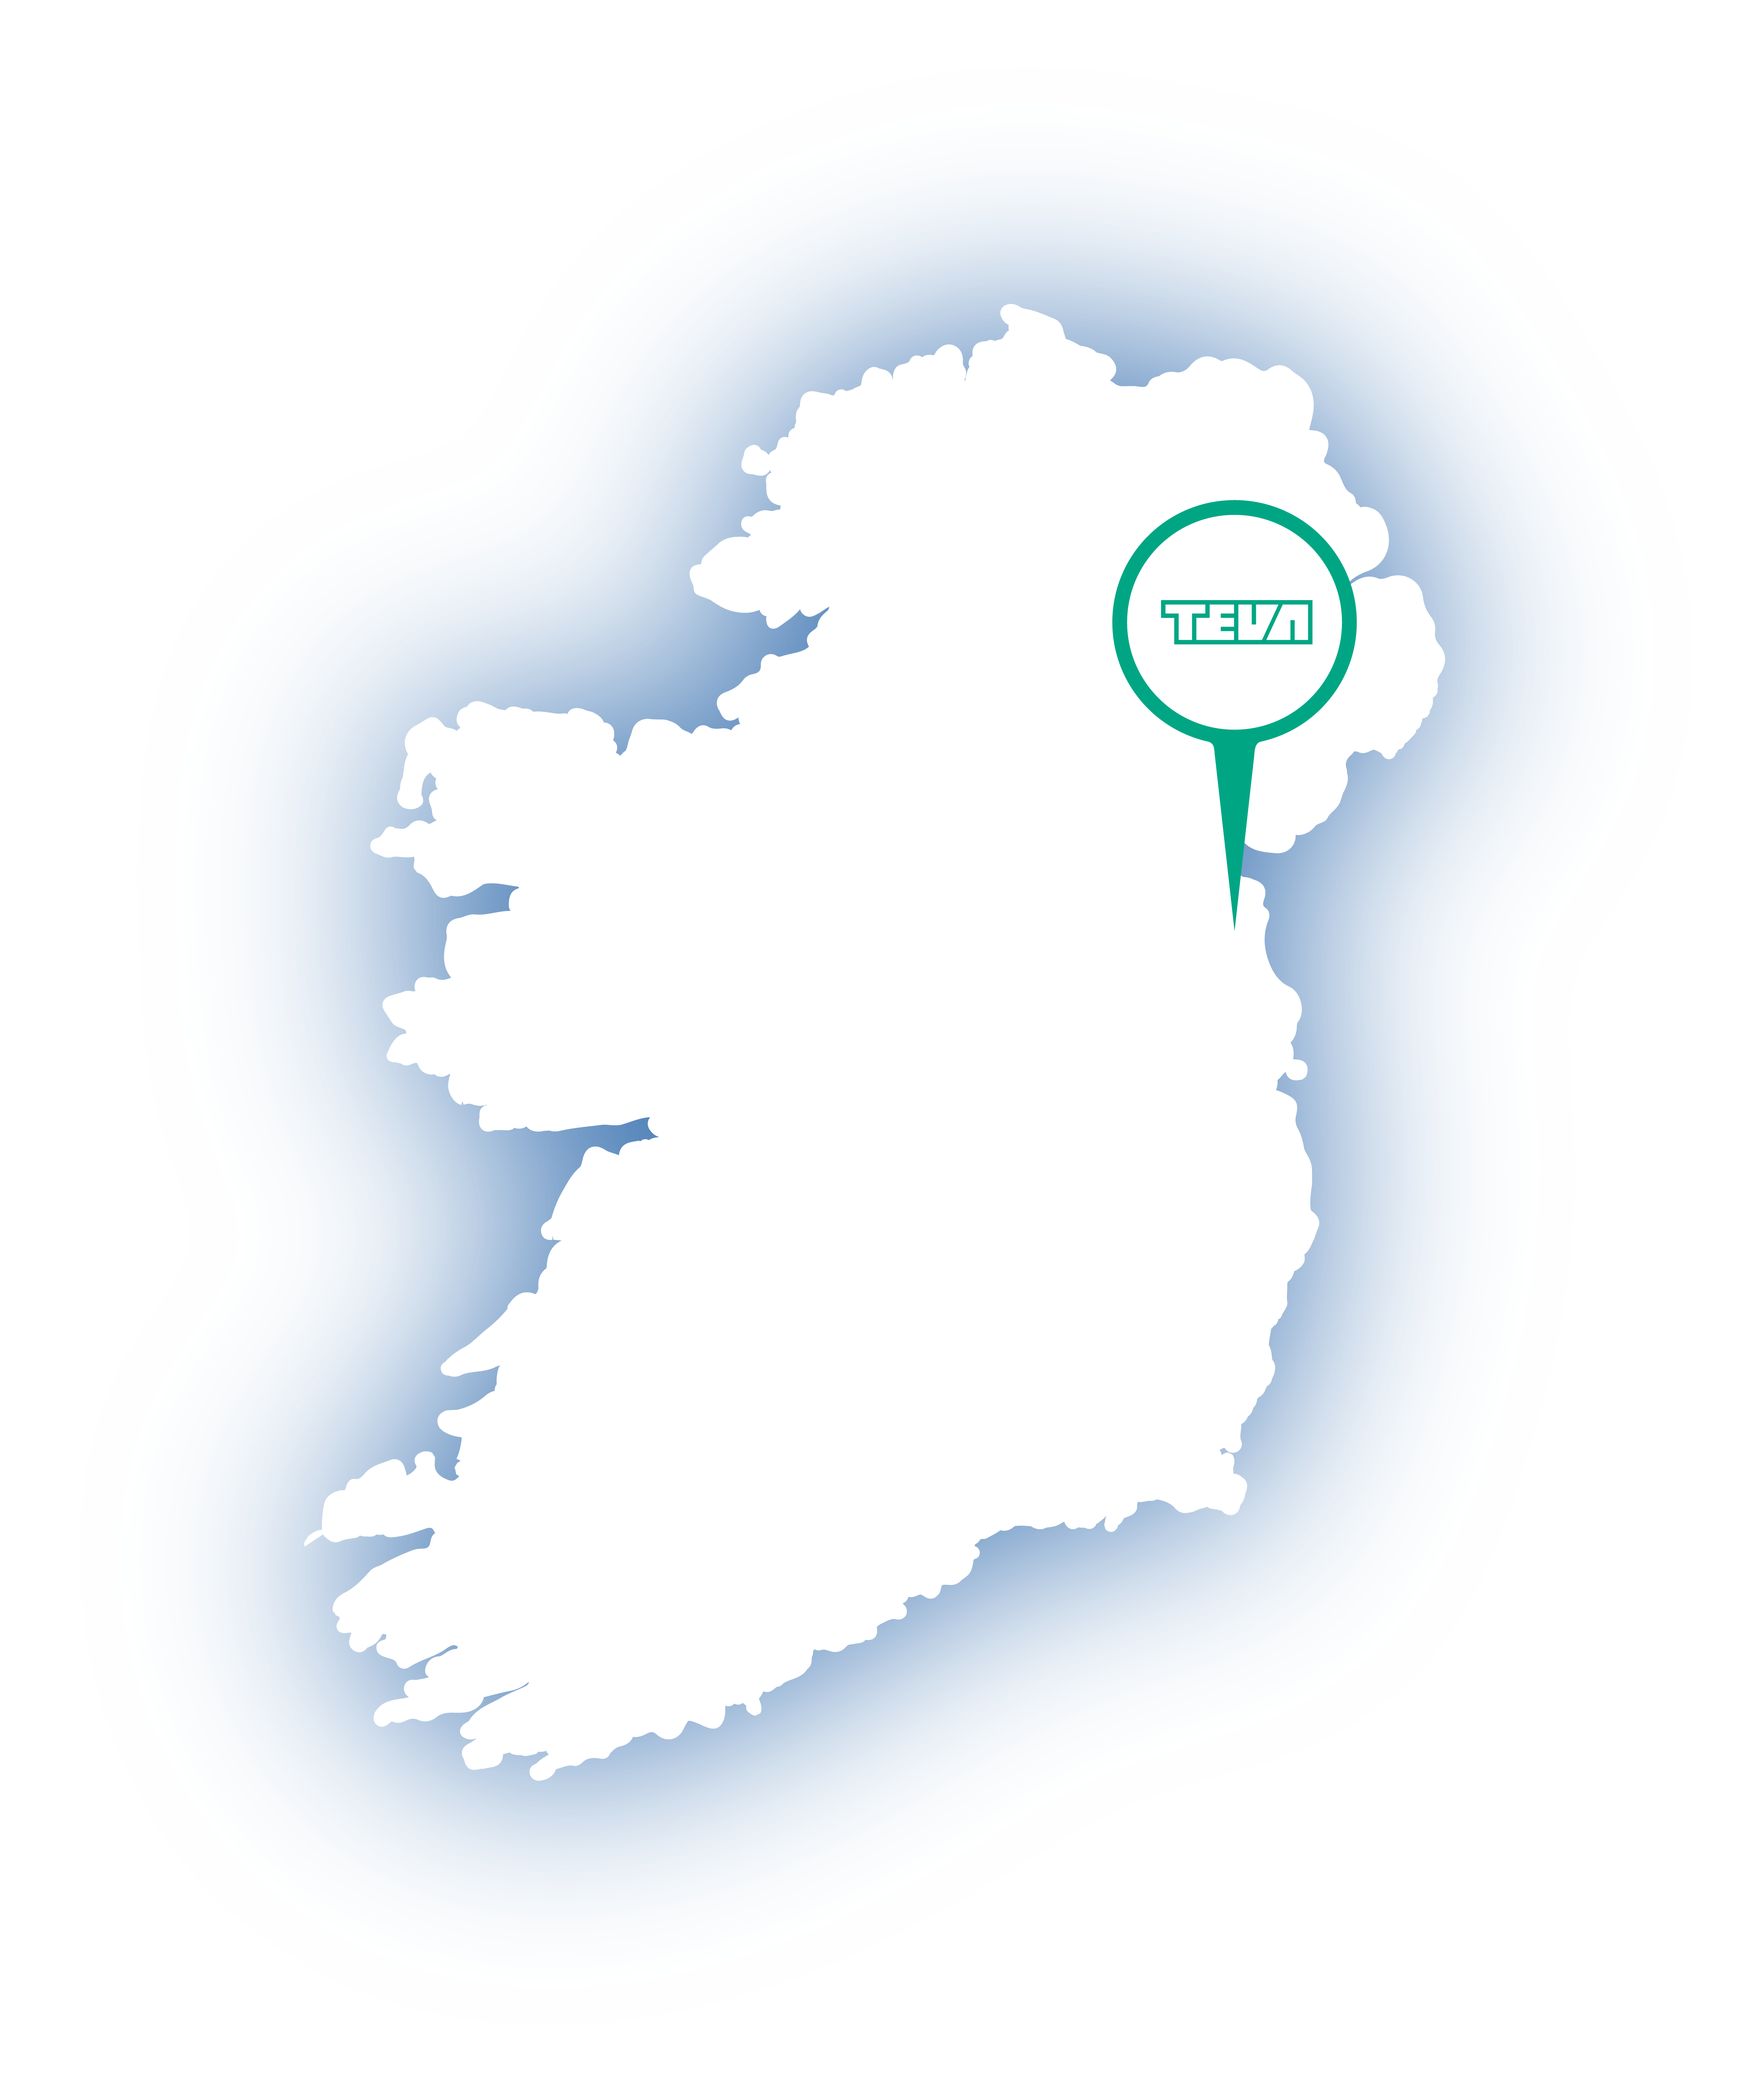
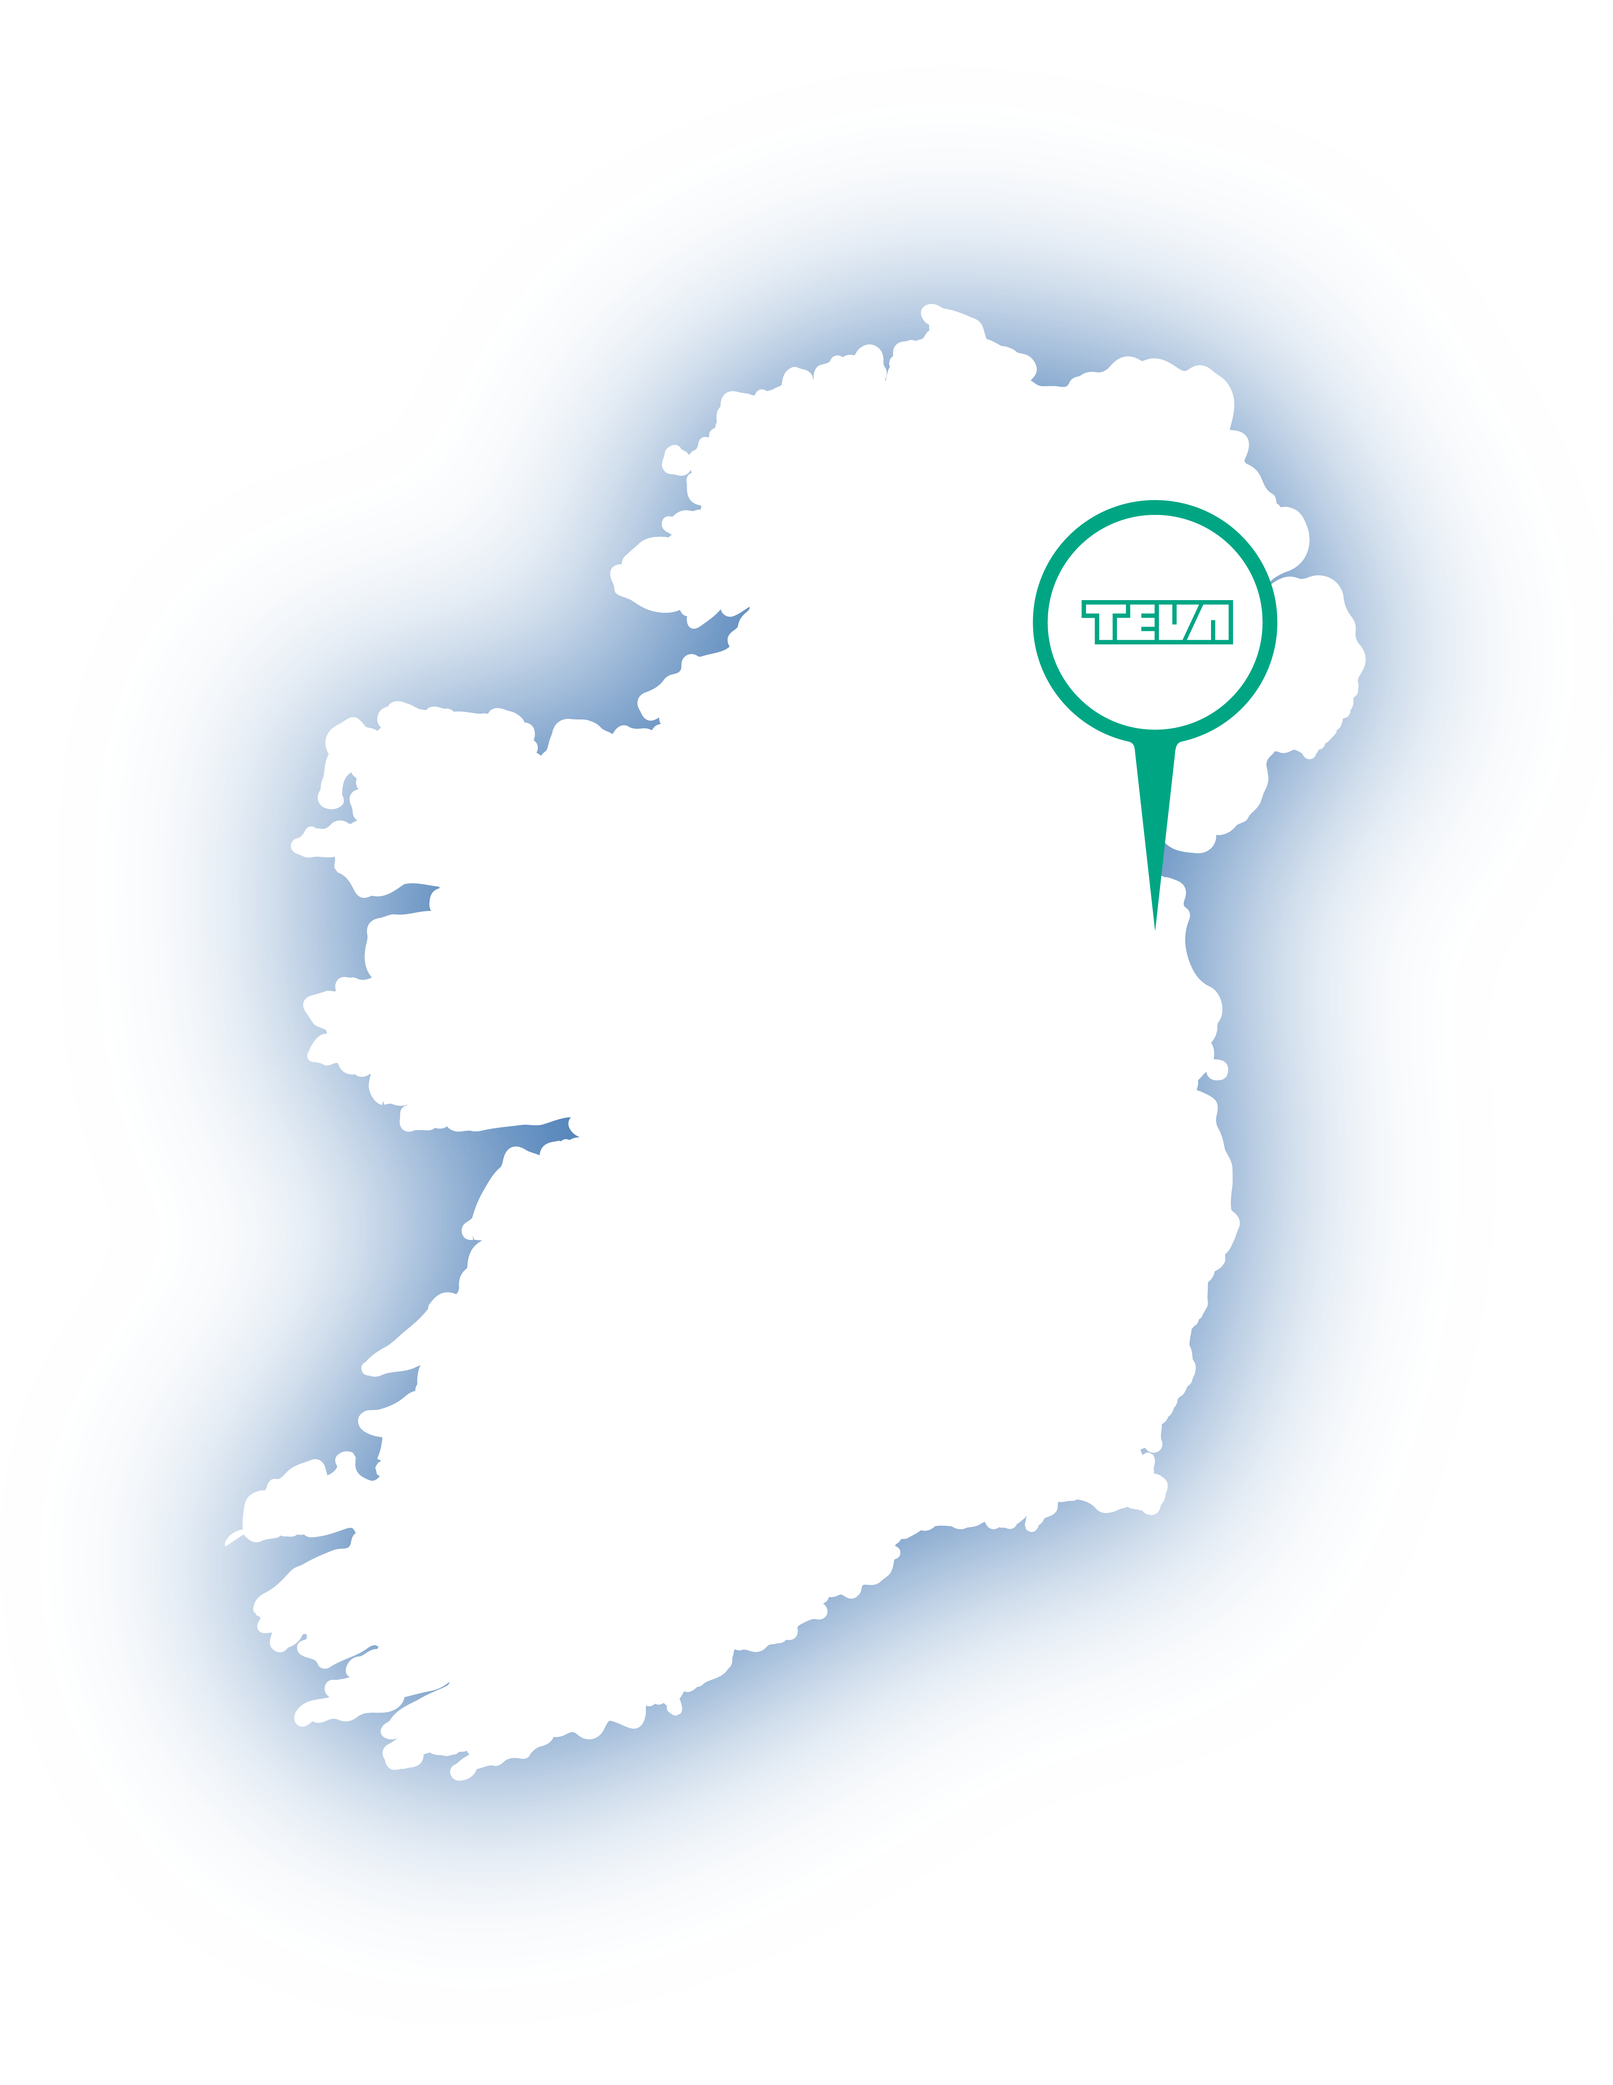
Finish Contact page

diff --git a/src/pages/contact.js b/src/pages/contact.js
@@ -6,9 +6,19 @@ import {
   H1,
   H2,
   LightBlueSpan,
-  Text,
-  FlexColumnWrapper
+  Text
 } from 'helpers/sharedStyles';
+
+const LocalContentWrapper = ContentWrapper.extend`
+  margin-top: -116.5vw;
+  position: relative;
+  z-index: 1;
+
+  @media screen and (min-width: 996px) {
+    display: flex;
+    margin-top: -1160.34px;
+  }
+`;
 
 const LocalH1 = H1.extend`
   margin-top: 29vw;
@@ -18,7 +28,6 @@ const LocalH1 = H1.extend`
   }
 
   @media screen and (min-width: 996px) {
-    font-size: 46.5px;
     margin-top: 288.84px;
   }
 `;
@@ -26,6 +35,16 @@ const LocalH1 = H1.extend`
 const LocalH2 = H2.extend`
   @media screen and (min-width: 600px) {
     font-size: 31.8px;
+  }
+`;
+
+const TextWrapper = styled.div`
+  display: flex;
+  flex-direction: column;
+
+  @media screen and (min-width: 996px) {
+    flex-shrink: 0;
+    z-index: 1;
   }
 `;
 
@@ -47,24 +66,20 @@ const MapImg = styled(Img)`
   @media screen and (min-width: 600px) {
     width: 546px;
   }
-`;
-
-const LocalContentWrapper = ContentWrapper.extend`
-  margin-top: -116.5vw;
-  padding-bottom: 0;
-  position: relative;
-  z-index: 1;
 
   @media screen and (min-width: 996px) {
-    margin-top: -1160.34px;
+    width: 780px;
+    position: absolute;
+    top: 277px;
+    right: 118px;
   }
 `;
 
 function Contact({ data }) {
   return (
-    <LocalContentWrapper>
-      <LocalH1>Contact Us</LocalH1>
-      <FlexColumnWrapper>
+    <LocalContentWrapper style={{ paddingBottom: 0 }}>
+      <TextWrapper>
+        <LocalH1>Contact Us</LocalH1>
         <LocalH2 style={{ marginBottom: 0 }}>Commercial Division</LocalH2>
         <LocalH2>Co. Louth, Ireland</LocalH2>
 
@@ -115,8 +130,8 @@ function Contact({ data }) {
           <LightBlueSpan>Collin Botha (North East)</LightBlueSpan>
           <br />087 668 5876 - collin.botha@teva.ie
         </LocalText>
-        <MapImg sizes={data.map.sizes} />
-      </FlexColumnWrapper>
+      </TextWrapper>
+      <MapImg sizes={data.map.sizes} />
     </LocalContentWrapper>
   );
 }
@@ -124,7 +139,7 @@ function Contact({ data }) {
 export const query = graphql`
   query ContactQuery {
     map: imageSharp(id: { regex: "/contact/map.png/" }) {
-      sizes(maxWidth: 676) {
+      sizes(maxWidth: 900) {
         src
         srcSet
         srcWebp

diff --git a/src/layouts/index.js b/src/layouts/index.js
@@ -42,7 +42,8 @@ const Layout = ({ children, data, location }) => {
       <Wrapper
         style={{
           margin: '0 auto',
-          padding: 0
+          padding: 0,
+          overflowX: 'hidden'
         }}>
         <Header logoSizes={logo.sizes} />
         <MainContent>
